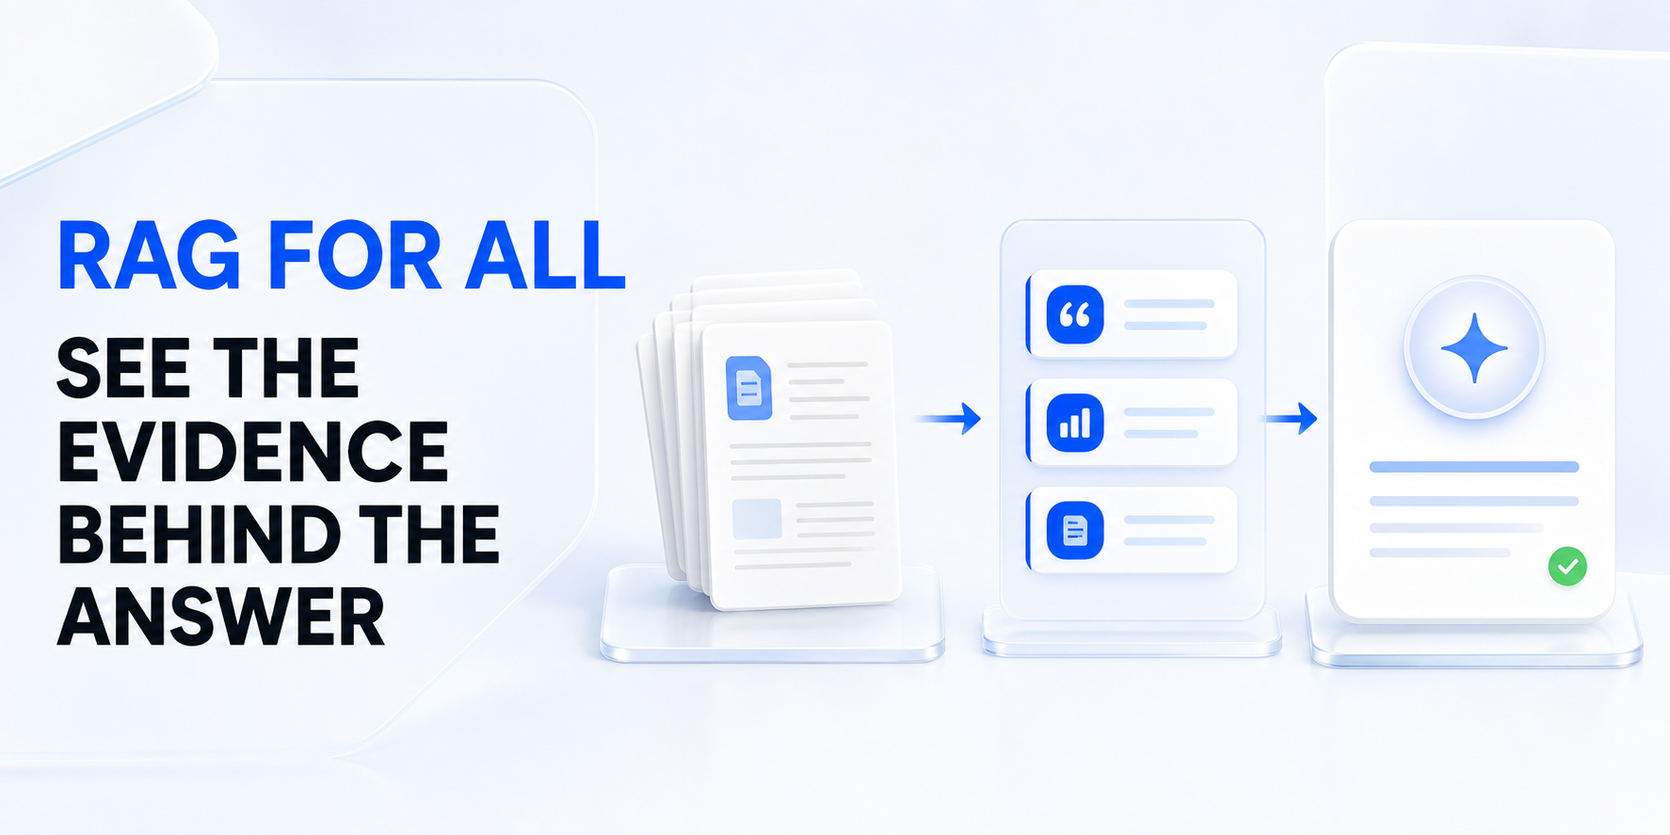
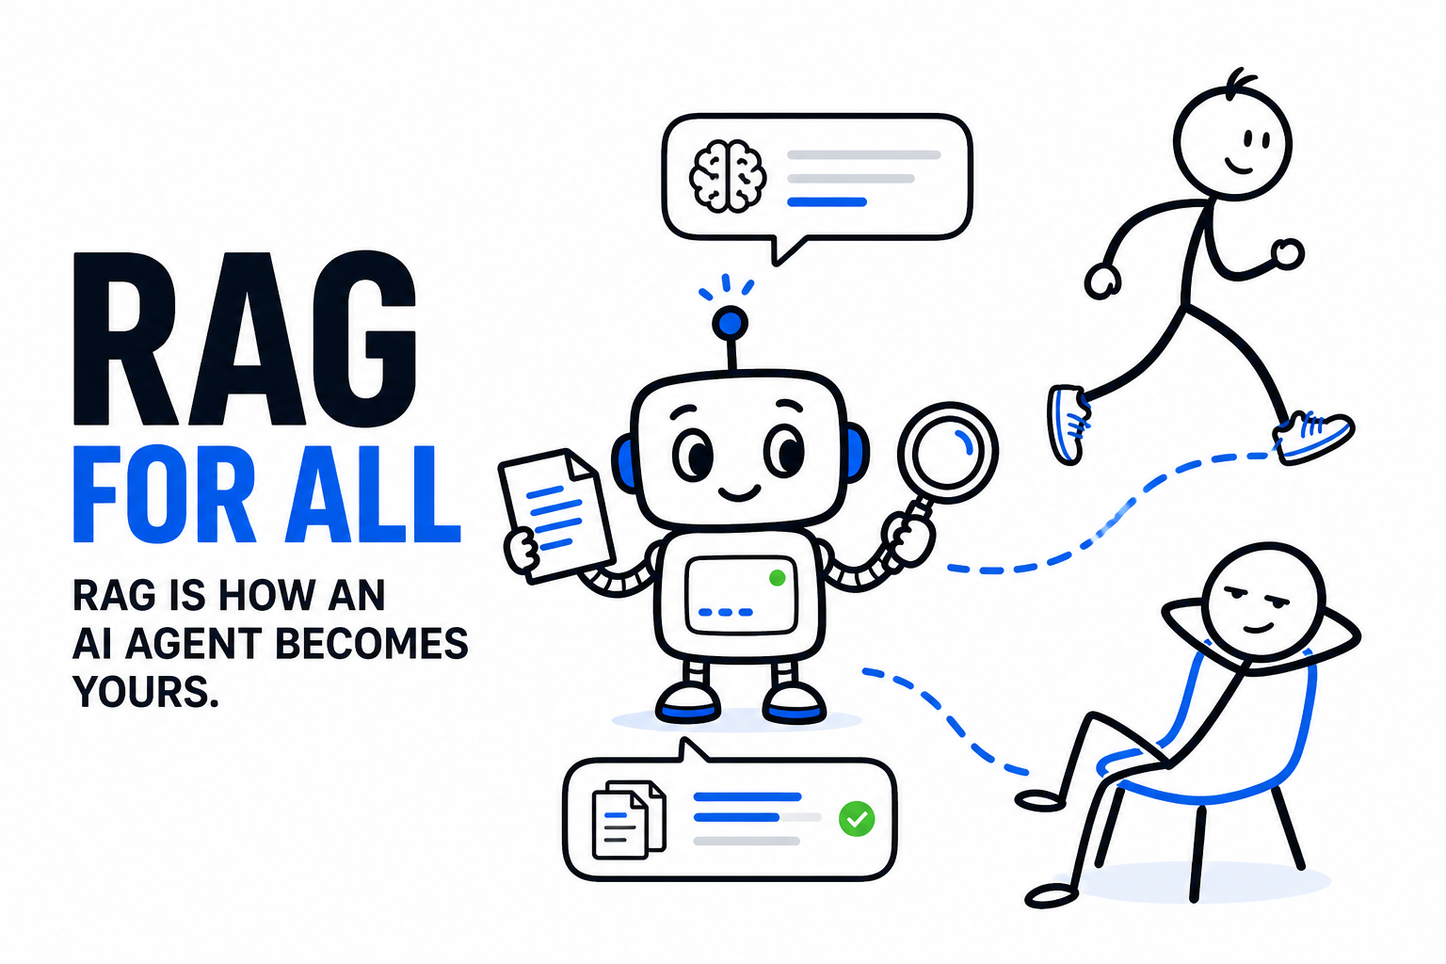
Clarify the RAG intro and focus Top K retrieval

diff --git a/app/rag-studio.tsx b/app/rag-studio.tsx
@@ -624,7 +624,7 @@ export function RagStudio() {
               <section className="retrieval-stage">
                 <QuestionBox query={query} setQuery={(value) => { setQuery(value); setAnswer(null); setPipelineRan(false); }} run={() => void runPipeline()} busy={Boolean(busy)} buttonLabel="Find candidates" />
                 {config.topK > chunks.length && chunks.length > 0 && <div className="inline-warning">You asked for {config.topK}, but this document only has {chunks.length} chunks. Tiny document, tiny buffet.</div>}
-                <RetrievalMap chunks={chunks} points={embeddingPoints} queryPoint={queryPoint} candidates={retrievedCandidates} finalIds={finalChunkIds} query={query} />
+                <RetrievalMap chunks={chunks} points={embeddingPoints} queryPoint={queryPoint} candidates={retrievedCandidates} topChunks={finalEvidence} topK={config.topK} query={query} />
                 <div className="retrieval-layout">
                   <div className="results-panel">
                     <div className="panel-title"><div><span>CANDIDATE POOL · {retrievedCandidates.length}</span><h2>Fast search casts a wider net.</h2></div><small>{config.method} · {embedding.source}</small></div>
@@ -740,27 +740,31 @@ function OverviewPage({ onStep }: { onStep: (step: StepKey) => void }) {
     <div className={`overview-viewport overview-show-${pane}`} onKeyDown={onOverviewKeyDown}>
       <div className="overview-world">
         <section className="overview-pane intro-pane" aria-label="Introduction to RAG FOR ALL" inert={pane !== "intro"}>
-          <div className="intro-copy">
-            <p className="intro-eyebrow">SEE THE EVIDENCE BEHIND THE ANSWER</p>
-            <h1><span>AI is powerful.</span> RAG gives it something real to work with.</h1>
-            <p className="intro-body">RAG FOR ALL turns Retrieval-Augmented Generation from a black box into a hands-on journey. See how one document becomes searchable evidence, how a question finds the right passages, and how an AI turns them into an answer you can trace. In the age of AI agents, the evidence behind an answer matters more than ever—because AI can now act, not just chat.</p>
-            <div className="intro-promises" aria-label="What this product makes visible">
-              <span><b>01</b> Follow every hand-off</span>
-              <span><b>02</b> Change real settings</span>
-              <span><b>03</b> Trace every answer</span>
+          <div className="intro-main">
+            <div className="intro-copy">
+              <p className="intro-eyebrow">FROM A SMART AGENT TO YOUR AGENT</p>
+              <h1>RAG is how an AI agent becomes <span>yours.</span></h1>
+              <p className="intro-body"><strong>RAG FOR ALL</strong> lets you see, change, and compare every RAG step—from document upload to the grounded answer. AI agents can act, but without your knowledge they are still generic. RAG connects an agent to your documents, your plans, and your latest facts, so it can finally work like <em>your</em> assistant.</p>
+              <div className="intro-promises" aria-label="What this product makes visible">
+                <span><b>01</b> See every hand-off</span>
+                <span><b>02</b> Change real settings</span>
+                <span><b>03</b> Check every answer</span>
+              </div>
             </div>
+            <RagDifferenceVisual />
           </div>
-          <IntroSystemVisual />
-          <button type="button" className="intro-route route-concepts" onClick={() => setPane("concepts")}>
-            <span><small>FIRST TIME SEEING RAG?</small><strong>Meet the idea before the machinery.</strong><em>Take a two-minute visual tour. No jargon exam at the end.</em></span>
-            <b aria-hidden="true">→</b>
-            <i>Show me what RAG is</i>
-          </button>
-          <button type="button" className="intro-route route-pipeline" onClick={() => setPane("pipeline")}>
-            <span><small>ALREADY KNOW THE BASICS?</small><strong>Skip the intro. Watch it work.</strong><em>Upload a document, change the settings, and watch every hand-off.</em></span>
-            <i>Visualize the pipeline</i>
-            <b aria-hidden="true">↓</b>
-          </button>
+          <aside className="intro-choices" aria-label="Choose your RAG journey">
+            <article className="intro-choice beginner-choice">
+              <div className="choice-speech"><small>NEW TO RAG?</small><strong>“I should learn what RAG is first. I’ll be right back.”</strong><span>Take the two-minute concept tour.</span></div>
+              <img src="/doodle-walking.png" alt="A curious doodle person walking toward the RAG introduction" />
+              <button type="button" onClick={() => setPane("concepts")} aria-label="Open the RAG concept tour">→</button>
+            </article>
+            <article className="intro-choice experienced-choice">
+              <div className="choice-speech"><small>ALREADY KNOW RAG?</small><strong>“I know the theory. Just show me the good stuff.”</strong><span>Jump into the working pipeline.</span></div>
+              <img src="/doodle-lounging.png" alt="A relaxed doodle person waiting to see the RAG pipeline" />
+              <button type="button" onClick={() => setPane("pipeline")} aria-label="Open the interactive RAG pipeline">↓</button>
+            </article>
+          </aside>
         </section>
 
         <section className="overview-pane concept-pane" aria-label="RAG concept tour" inert={pane !== "concepts"}>
@@ -829,14 +833,23 @@ function OverviewPage({ onStep }: { onStep: (step: StepKey) => void }) {
   </section>;
 }
 
-function IntroSystemVisual() {
-  return <div className="intro-system-visual" aria-label="Documents become evidence that an AI agent can use">
-    <div className="intro-visual-caption"><span>ONE DOCUMENT</span><b>VISIBLE ALL THE WAY THROUGH</b></div>
-    <div className="intro-knowledge-card"><small>YOUR KNOWLEDGE</small><i /><i /><i /><strong>DOC</strong></div>
-    <div className="intro-search-path"><span>RETRIEVE</span><i /><i /><i /><b>→</b></div>
-    <div className="intro-agent-card"><small>AI AGENT</small><strong>EVIDENCE IN</strong><div><span>SEARCH</span><span>DECIDE</span><span>ACT</span></div></div>
-    <p><i /> Answer grounded in something you can inspect</p>
-  </div>;
+function RagDifferenceVisual() {
+  const question = "Can you check tomorrow’s date—where, when, and what should I bring?";
+  return <section className="rag-difference" aria-label="The same assistant conversation without and with RAG">
+    <header><span>WHY RAG CHANGES THE CONVERSATION</span><strong>Same question. Very different assistant.</strong></header>
+    <div className="rag-dialogues">
+      <article className="rag-dialogue without-rag">
+        <div className="dialogue-label"><span>WITHOUT RAG</span><small>Generic memory only</small></div>
+        <p className="chat-bubble user-chat">{question}</p>
+        <div className="agent-reply"><img src="/doodle-agent.png" alt="A cute AI agent robot" /><p className="chat-bubble agent-chat">Sorry, I couldn’t find any information about your date.</p></div>
+      </article>
+      <article className="rag-dialogue with-rag">
+        <div className="dialogue-label"><span>WITH RAG</span><small>Your latest information</small></div>
+        <p className="chat-bubble user-chat">{question}</p>
+        <div className="agent-reply"><img src="/doodle-agent.png" alt="A cute AI agent robot using retrieved information" /><p className="chat-bubble agent-chat">I found an update: your date went official with someone else yesterday. Still want to go?</p></div>
+      </article>
+    </div>
+  </section>;
 }
 
 function ConceptVisual({ kind }: { kind: ConceptVisualKind }) {
@@ -895,28 +908,57 @@ function QuestionBox({ query, setQuery, run, busy, buttonLabel = "Retrieve evide
   return <div className="query-box"><span>YOUR QUESTION</span><input value={query} onChange={(event) => setQuery(event.target.value)} aria-label="Question" /><button type="button" onClick={run} disabled={busy || !query.trim()}>{busy ? "Working…" : buttonLabel}</button></div>;
 }
 
-function RetrievalMap({ chunks, points, queryPoint, candidates, finalIds, query }: { chunks: RagChunk[]; points: Array<{ x: number; y: number }>; queryPoint: { x: number; y: number }; candidates: RankedChunk[]; finalIds: Set<number>; query: string }) {
+function RetrievalMap({ chunks, points, queryPoint, candidates, topChunks, topK, query }: { chunks: RagChunk[]; points: Array<{ x: number; y: number }>; queryPoint: { x: number; y: number }; candidates: RankedChunk[]; topChunks: RerankedChunk[]; topK: number; query: string }) {
+  const [zoom, setZoom] = useState(1);
   const candidateById = new Map(candidates.map((candidate) => [candidate.id, candidate]));
+  const displayedTopChunks = topChunks.length ? topChunks.slice(0, topK) : candidates.slice(0, topK);
+  const topKOrder = new Map(displayedTopChunks.map((candidate, index) => [candidate.id, index + 1]));
+  const focusPoints = [queryPoint, ...displayedTopChunks.map((candidate) => points[candidate.id - 1] ?? { x: 50, y: 50 })];
+  const minX = Math.min(...focusPoints.map((point) => point.x));
+  const maxX = Math.max(...focusPoints.map((point) => point.x));
+  const minY = Math.min(...focusPoints.map((point) => point.y));
+  const maxY = Math.max(...focusPoints.map((point) => point.y));
+  const center = { x: (minX + maxX) / 2, y: (minY + maxY) / 2 };
+  const fitScale = Math.min(2.6, 64 / Math.max(18, maxX - minX), 64 / Math.max(18, maxY - minY));
+  const displayPoint = (point: { x: number; y: number }) => ({
+    x: 50 + (point.x - center.x) * fitScale * zoom,
+    y: 50 + (point.y - center.y) * fitScale * zoom,
+  });
+  const displayedQuery = displayPoint(queryPoint);
+  const focusKey = `${query}:${displayedTopChunks.map((chunk) => chunk.id).join(",")}`;
+
+  useEffect(() => setZoom(1), [focusKey]);
+
   return <section className="retrieval-map-card">
     <div className="retrieval-space" aria-label="Question vector connected to its nearest chunk candidates">
-      <div className="retrieval-space-grid" />
-      {candidates.map((candidate) => {
-        const point = points[candidate.id - 1] ?? { x: 50, y: 50 };
-        return <i className="retrieval-link" style={retrievalLineStyle(queryPoint, point, candidate.score)} key={`link-${candidate.id}`} />;
-      })}
+      <div className="retrieval-space-grid" style={{ backgroundSize: `${Math.max(22, 34 * fitScale * zoom)}px ${Math.max(22, 34 * fitScale * zoom)}px` }} />
+      <div className="retrieval-map-controls" aria-label="Vector map zoom controls">
+        <button type="button" onClick={() => setZoom((current) => Math.max(.75, current - .25))} disabled={zoom <= .75} aria-label="Zoom out">−</button>
+        <span>{Math.round(zoom * 100)}%</span>
+        <button type="button" onClick={() => setZoom((current) => Math.min(1.75, current + .25))} disabled={zoom >= 1.75} aria-label="Zoom in">+</button>
+        <button type="button" className="fit-top-k" onClick={() => setZoom(1)}>Fit Top K</button>
+      </div>
+      <div className="retrieval-fit-label">Q + {displayedTopChunks.length} TOP K CHUNKS · AUTO-FITTED</div>
+      <svg className="retrieval-links" viewBox="0 0 100 100" preserveAspectRatio="none" aria-hidden="true">
+        {displayedTopChunks.map((candidate) => {
+          const point = displayPoint(points[candidate.id - 1] ?? { x: 50, y: 50 });
+          return <line x1={displayedQuery.x} y1={displayedQuery.y} x2={point.x} y2={point.y} opacity={Math.max(.45, Math.min(.88, candidate.score))} vectorEffect="non-scaling-stroke" key={`link-${candidate.id}`} />;
+        })}
+      </svg>
       {chunks.map((chunk) => {
-        const point = points[chunk.id - 1] ?? { x: 50, y: 50 };
+        const point = displayPoint(points[chunk.id - 1] ?? { x: 50, y: 50 });
         const candidate = candidateById.get(chunk.id);
-        return <span className={`retrieval-space-dot ${candidate ? "candidate" : ""} ${finalIds.has(chunk.id) ? "final" : ""}`} style={{ left: `${point.x}%`, top: `${point.y}%` }} title={`Chunk ${chunk.id}`} key={chunk.id}>{candidate ? candidate.rank : ""}</span>;
+        const topRank = topKOrder.get(chunk.id);
+        return <span className={`retrieval-space-dot ${candidate ? "candidate" : ""} ${topRank ? "top-k" : ""}`} style={{ left: `${point.x}%`, top: `${point.y}%` }} title={`Chunk ${chunk.id}${candidate ? ` · ${Math.round(candidate.score * 100)}% retrieval match` : ""}`} key={chunk.id}>{topRank ?? ""}</span>;
       })}
-      <span className="query-vector" style={{ left: `${queryPoint.x}%`, top: `${queryPoint.y}%` }}>Q</span>
+      <span className="query-vector" style={{ left: `${displayedQuery.x}%`, top: `${displayedQuery.y}%` }}>Q</span>
     </div>
     <div className="retrieval-map-copy">
-      <span>FIRST PASS · FAST SEARCH</span><h2>The question enters the same space.</h2>
-      <p><strong>Q</strong> is the question vector. Numbered dots are the broad candidate pool; lower numbers ranked higher in the first pass. The highlighted dots survive the second pass and become final evidence.</p>
+      <span>TOP K · QUESTION-TO-EVIDENCE VIEW</span><h2>See exactly what the question connects to.</h2>
+      <p><strong>Q</strong> is the question vector. The numbered green dots are the current Top K chunks that continue to the prompt. This view automatically fits the question, every Top K chunk, and every connecting line into one readable frame.</p>
       <div className="question-preview"><small>QUESTION</small><strong>{query}</strong></div>
-      <div className="retrieval-map-legend"><span><i className="query" /> Question</span><span><i className="candidate" /> Candidate</span><span><i className="final" /> Final evidence</span></div>
-      <small className="projection-note">The lines explain the relationship. Their apparent 2D length is illustrative; ranking uses the original high-dimensional scores.</small>
+      <div className="retrieval-map-legend"><span><i className="query" /> Question</span><span><i className="top-k" /> Top K chunk</span><span><i /> Other chunk</span></div>
+      <small className="projection-note">The lines use the real positions in this 2D projection. Retrieval and reranking still use the original high-dimensional scores—not the apparent screen distance.</small>
     </div>
   </section>;
 }
@@ -943,18 +985,6 @@ function RerankFlow({ candidates, finalEvidence, source, model }: { candidates: 
 function SettingDelta({ label, before, after }: { label: string; before: string; after: string }) {
   const changed = before !== after;
   return <div className={changed ? "changed" : "same"}><span>{label}</span><strong>{before}</strong><b>→</b><strong>{after}</strong></div>;
-}
-
-function retrievalLineStyle(from: { x: number; y: number }, to: { x: number; y: number }, score: number) {
-  const dx = to.x - from.x;
-  const dy = to.y - from.y;
-  return {
-    left: `${from.x}%`,
-    top: `${from.y}%`,
-    width: `${Math.hypot(dx, dy)}%`,
-    opacity: Math.max(.2, Math.min(.78, score)),
-    transform: `rotate(${Math.atan2(dy, dx) * 180 / Math.PI}deg)`,
-  };
 }
 
 function ChunkControls({ config, mode, update, experiment }: { config: PipelineConfig; mode: "Basic" | "Advanced"; update: (patch: Partial<PipelineConfig>) => void; experiment: ExperimentName }) {

diff --git a/app/globals.css b/app/globals.css
@@ -780,3 +780,110 @@ select { width: 100%; border: 1px solid var(--line); border-radius: 9px; padding
 @media (prefers-reduced-motion: reduce) {
   .overview-world,.intro-route { transition: none; }
 }
+
+/* Cleaner intro: product story on the left, two character-led routes on the right. */
+.intro-pane {
+  display: grid;
+  grid-template-columns: minmax(0,1fr) clamp(320px,24vw,390px);
+  align-items: stretch;
+  gap: clamp(22px,2.3vw,38px);
+  padding: clamp(24px,3vh,38px);
+  overflow: hidden;
+  background: #fff;
+}
+.intro-pane::before { display: none; }
+.intro-main { min-width: 0; min-height: 0; display: flex; flex-direction: column; gap: clamp(20px,2.5vh,30px); }
+.intro-main .intro-copy { max-width: 1040px; padding: 4px 8px 0; }
+.app-shell .intro-main .intro-eyebrow { margin-bottom: 14px; }
+.intro-main .intro-copy h1 { max-width: 980px; font-size: clamp(38px,3.5vw,56px); line-height: 1.02; }
+.intro-main .intro-copy h1 span { display: inline; color: var(--blue); font-size: inherit; font-style: italic; }
+.app-shell .intro-main .intro-body { max-width: 1000px; margin-top: 19px; font-size: clamp(14px,1vw,16px); line-height: 1.58; }
+.intro-main .intro-body strong { color: #20242b; font-size: inherit; }
+.intro-main .intro-body em { color: var(--blue); font-size: inherit; font-style: italic; font-weight: 690; }
+.intro-main .intro-promises { margin-top: 17px; padding-top: 14px; }
+
+.rag-difference { min-height: 0; flex: 1; overflow: hidden; border: 1px solid #e2e7ef; border-radius: 22px; background: #fafcff; box-shadow: 0 16px 44px rgba(37,54,85,.055); }
+.rag-difference > header { display: flex; align-items: baseline; justify-content: space-between; gap: 18px; padding: 15px 18px; border-bottom: 1px solid #e6eaf0; background: rgba(255,255,255,.78); }
+.rag-difference > header span { color: var(--blue); font: 750 9px var(--font-geist-mono); letter-spacing: .12em; }
+.rag-difference > header strong { color: #4c5562; font-size: 12px; }
+.rag-dialogues { height: calc(100% - 51px); min-height: 250px; display: grid; grid-template-columns: repeat(2,minmax(0,1fr)); }
+.rag-dialogue { min-width: 0; display: flex; flex-direction: column; gap: 11px; padding: 15px 17px 16px; }
+.rag-dialogue + .rag-dialogue { border-left: 1px solid #e3e8ef; }
+.dialogue-label { display: flex; align-items: center; justify-content: space-between; gap: 12px; }
+.dialogue-label span { padding: 5px 8px; border-radius: 7px; background: #eceff3; color: #656d78; font: 740 8px var(--font-geist-mono); letter-spacing: .1em; }
+.with-rag .dialogue-label span { background: #e9f7ef; color: #16724f; }
+.dialogue-label small { color: #8a929e; font-size: 10px; }
+.app-shell .chat-bubble { position: relative; margin: 0; border-radius: 14px; padding: 10px 12px; font-size: clamp(11px,.82vw,13px); line-height: 1.42; }
+.user-chat { align-self: flex-start; max-width: 82%; border: 1px solid #dce3ec; background: #fff; color: #3f4752; }
+.user-chat::after { content: ""; position: absolute; left: 16px; bottom: -6px; width: 10px; height: 10px; border-right: 1px solid #dce3ec; border-bottom: 1px solid #dce3ec; background: #fff; transform: rotate(45deg); }
+.agent-reply { min-height: 105px; display: grid; grid-template-columns: 92px minmax(0,1fr); align-items: center; gap: 8px; margin-top: auto; }
+.agent-reply img { width: 92px; height: 92px; object-fit: cover; mix-blend-mode: multiply; transform: scale(1.16); }
+.agent-chat { border: 1px solid #dfe3e9; background: #f1f3f6; color: #5c6571; }
+.with-rag .agent-chat { border-color: #cde7da; background: #edf8f2; color: #255e49; }
+.agent-chat::before { content: ""; position: absolute; left: -6px; top: 50%; width: 10px; height: 10px; border-left: 1px solid #dfe3e9; border-bottom: 1px solid #dfe3e9; background: inherit; transform: translateY(-50%) rotate(45deg); }
+.with-rag .agent-chat::before { border-color: #cde7da; }
+
+.intro-choices { min-width: 0; min-height: 0; display: grid; grid-template-rows: repeat(2,minmax(0,1fr)); gap: 16px; }
+.intro-choice { position: relative; min-height: 0; overflow: hidden; display: grid; grid-template-columns: minmax(0,1fr) 130px; grid-template-rows: 1fr 54px; gap: 8px 10px; padding: 17px; border: 1px solid #e1e6ed; border-radius: 22px; background: #fbfcfe; }
+.intro-choice::before { content: ""; position: absolute; width: 210px; height: 210px; right: -105px; bottom: -120px; border-radius: 50%; background: rgba(37,99,235,.055); }
+.experienced-choice { background: #fbfdfc; }
+.choice-speech { position: relative; z-index: 1; align-self: start; padding: 13px 14px; border: 1px solid #dce4ef; border-radius: 16px; background: #fff; box-shadow: 0 9px 25px rgba(34,52,84,.055); }
+.choice-speech::after { content: ""; position: absolute; right: -7px; bottom: 23px; width: 12px; height: 12px; border-top: 1px solid #dce4ef; border-right: 1px solid #dce4ef; background: #fff; transform: rotate(45deg); }
+.choice-speech small { display: block; color: var(--blue); font: 750 8px var(--font-geist-mono); letter-spacing: .1em; }
+.choice-speech strong { display: block; margin-top: 7px; color: #252b34; font-size: clamp(12px,.9vw,14px); line-height: 1.35; }
+.choice-speech span { display: block; margin-top: 7px; color: #7d8590; font-size: 10px; line-height: 1.35; }
+.intro-choice > img { z-index: 1; align-self: end; justify-self: center; width: 132px; height: 155px; grid-column: 2; grid-row: 1 / -1; object-fit: cover; mix-blend-mode: multiply; transform: scale(1.12); }
+.experienced-choice > img { width: 148px; height: 165px; transform: scale(1.12); }
+.intro-choice > button { position: relative; z-index: 2; grid-column: 1; grid-row: 2; align-self: end; width: 50px; height: 50px; display: grid; place-items: center; border: 0; border-radius: 13px; background: #17191d; color: #fff; font-size: 23px; cursor: pointer; box-shadow: 0 9px 22px rgba(17,24,39,.16); transition: transform .2s ease,background .2s ease; }
+.experienced-choice > button { background: var(--blue); }
+.intro-choice > button:hover { transform: translate(3px,-2px); }
+.experienced-choice > button:hover { transform: translateY(3px); }
+.intro-choice > button:focus-visible { outline: 3px solid rgba(37,99,235,.28); outline-offset: 3px; }
+
+/* Retrieve map: fit the question and only the Top K evidence links by default. */
+.retrieval-map-controls { position: absolute; z-index: 8; right: 14px; top: 13px; display: flex; align-items: center; gap: 5px; padding: 5px; border: 1px solid #dce3ed; border-radius: 12px; background: rgba(255,255,255,.92); box-shadow: 0 8px 24px rgba(37,50,70,.09); backdrop-filter: blur(10px); }
+.retrieval-map-controls button { min-width: 31px; height: 31px; border: 0; border-radius: 8px; background: #f1f4f8; color: #303844; font-size: 16px; font-weight: 700; cursor: pointer; }
+.retrieval-map-controls button:hover { background: #e8eef8; }
+.retrieval-map-controls button:disabled { opacity: .35; cursor: not-allowed; }
+.retrieval-map-controls span { width: 42px; color: #6d7786; font: 650 9px var(--font-geist-mono); text-align: center; }
+.retrieval-map-controls .fit-top-k { width: auto; padding: 0 10px; background: #17191d; color: #fff; font-size: 9px; letter-spacing: .03em; }
+.retrieval-fit-label { position: absolute; z-index: 6; left: 16px; top: 17px; padding: 7px 9px; border-radius: 8px; background: rgba(255,255,255,.84); color: #788395; font: 700 8px var(--font-geist-mono); letter-spacing: .08em; backdrop-filter: blur(8px); }
+.retrieval-space-dot.candidate { width: 19px; height: 19px; background: #aeb8c6; color: transparent; box-shadow: 0 3px 8px rgba(37,50,68,.14); }
+.retrieval-space-dot.top-k { width: 36px; height: 36px; background: #167a55; color: #fff; outline: 3px solid rgba(22,122,85,.2); outline-offset: 3px; box-shadow: 0 0 0 6px rgba(22,122,85,.08),0 7px 18px rgba(22,122,85,.22); }
+.retrieval-links { position: absolute; z-index: 1; inset: 0; width: 100%; height: 100%; overflow: visible; pointer-events: none; }
+.retrieval-links line { stroke: #315d4e; stroke-width: 3; stroke-linecap: round; }
+.retrieval-map-legend i.top-k { background: #167a55; }
+
+@media (max-width: 1180px) {
+  .intro-pane { grid-template-columns: minmax(0,1fr) 310px; padding: 24px; }
+  .intro-choice { grid-template-columns: minmax(0,1fr) 105px; padding: 14px; }
+  .intro-choice > img { width: 112px; height: 142px; }
+  .experienced-choice > img { width: 122px; height: 150px; }
+  .rag-dialogue { padding-inline: 13px; }
+  .agent-reply { grid-template-columns: 75px minmax(0,1fr); }
+  .agent-reply img { width: 76px; height: 76px; }
+}
+
+@media (max-width: 900px) {
+  .intro-pane { display: flex; flex-direction: column; padding: 23px; overflow-y: auto; }
+  .intro-main { flex: 0 0 auto; }
+  .rag-difference { min-height: 390px; }
+  .intro-choices { flex: 0 0 auto; min-height: 315px; grid-template-columns: repeat(2,minmax(0,1fr)); grid-template-rows: 1fr; }
+  .intro-choice { min-height: 300px; }
+}
+
+@media (max-width: 680px) {
+  .intro-pane { display: flex; gap: 19px; padding: 22px 17px; }
+  .intro-main .intro-copy { padding-inline: 3px; }
+  .intro-main .intro-copy h1 { font-size: 38px; }
+  .rag-difference { min-height: 610px; overflow: visible; }
+  .rag-difference > header { display: block; }
+  .rag-difference > header strong { display: block; margin-top: 5px; }
+  .rag-dialogues { height: auto; grid-template-columns: 1fr; }
+  .rag-dialogue + .rag-dialogue { border-left: 0; border-top: 1px solid #e3e8ef; }
+  .intro-choices { min-height: 620px; grid-template-columns: 1fr; grid-template-rows: repeat(2,300px); }
+  .retrieval-map-controls { right: 8px; top: 8px; }
+  .retrieval-map-controls span { display: none; }
+  .retrieval-map-controls .fit-top-k { padding-inline: 8px; }
+  .retrieval-fit-label { left: 8px; top: 54px; }
+}

diff --git a/app/layout.tsx b/app/layout.tsx
@@ -15,7 +15,7 @@ export const metadata: Metadata = {
   openGraph: {
     title: "RAG FOR ALL",
     description: "See the evidence behind the answer.",
-    images: [{ url: "/og.png", width: 1774, height: 887, alt: "RAG FOR ALL document-to-evidence journey" }],
+    images: [{ url: "/og.png", width: 1536, height: 1024, alt: "RAG FOR ALL turns a generic AI agent into your agent" }],
   },
   twitter: {
     card: "summary_large_image",
